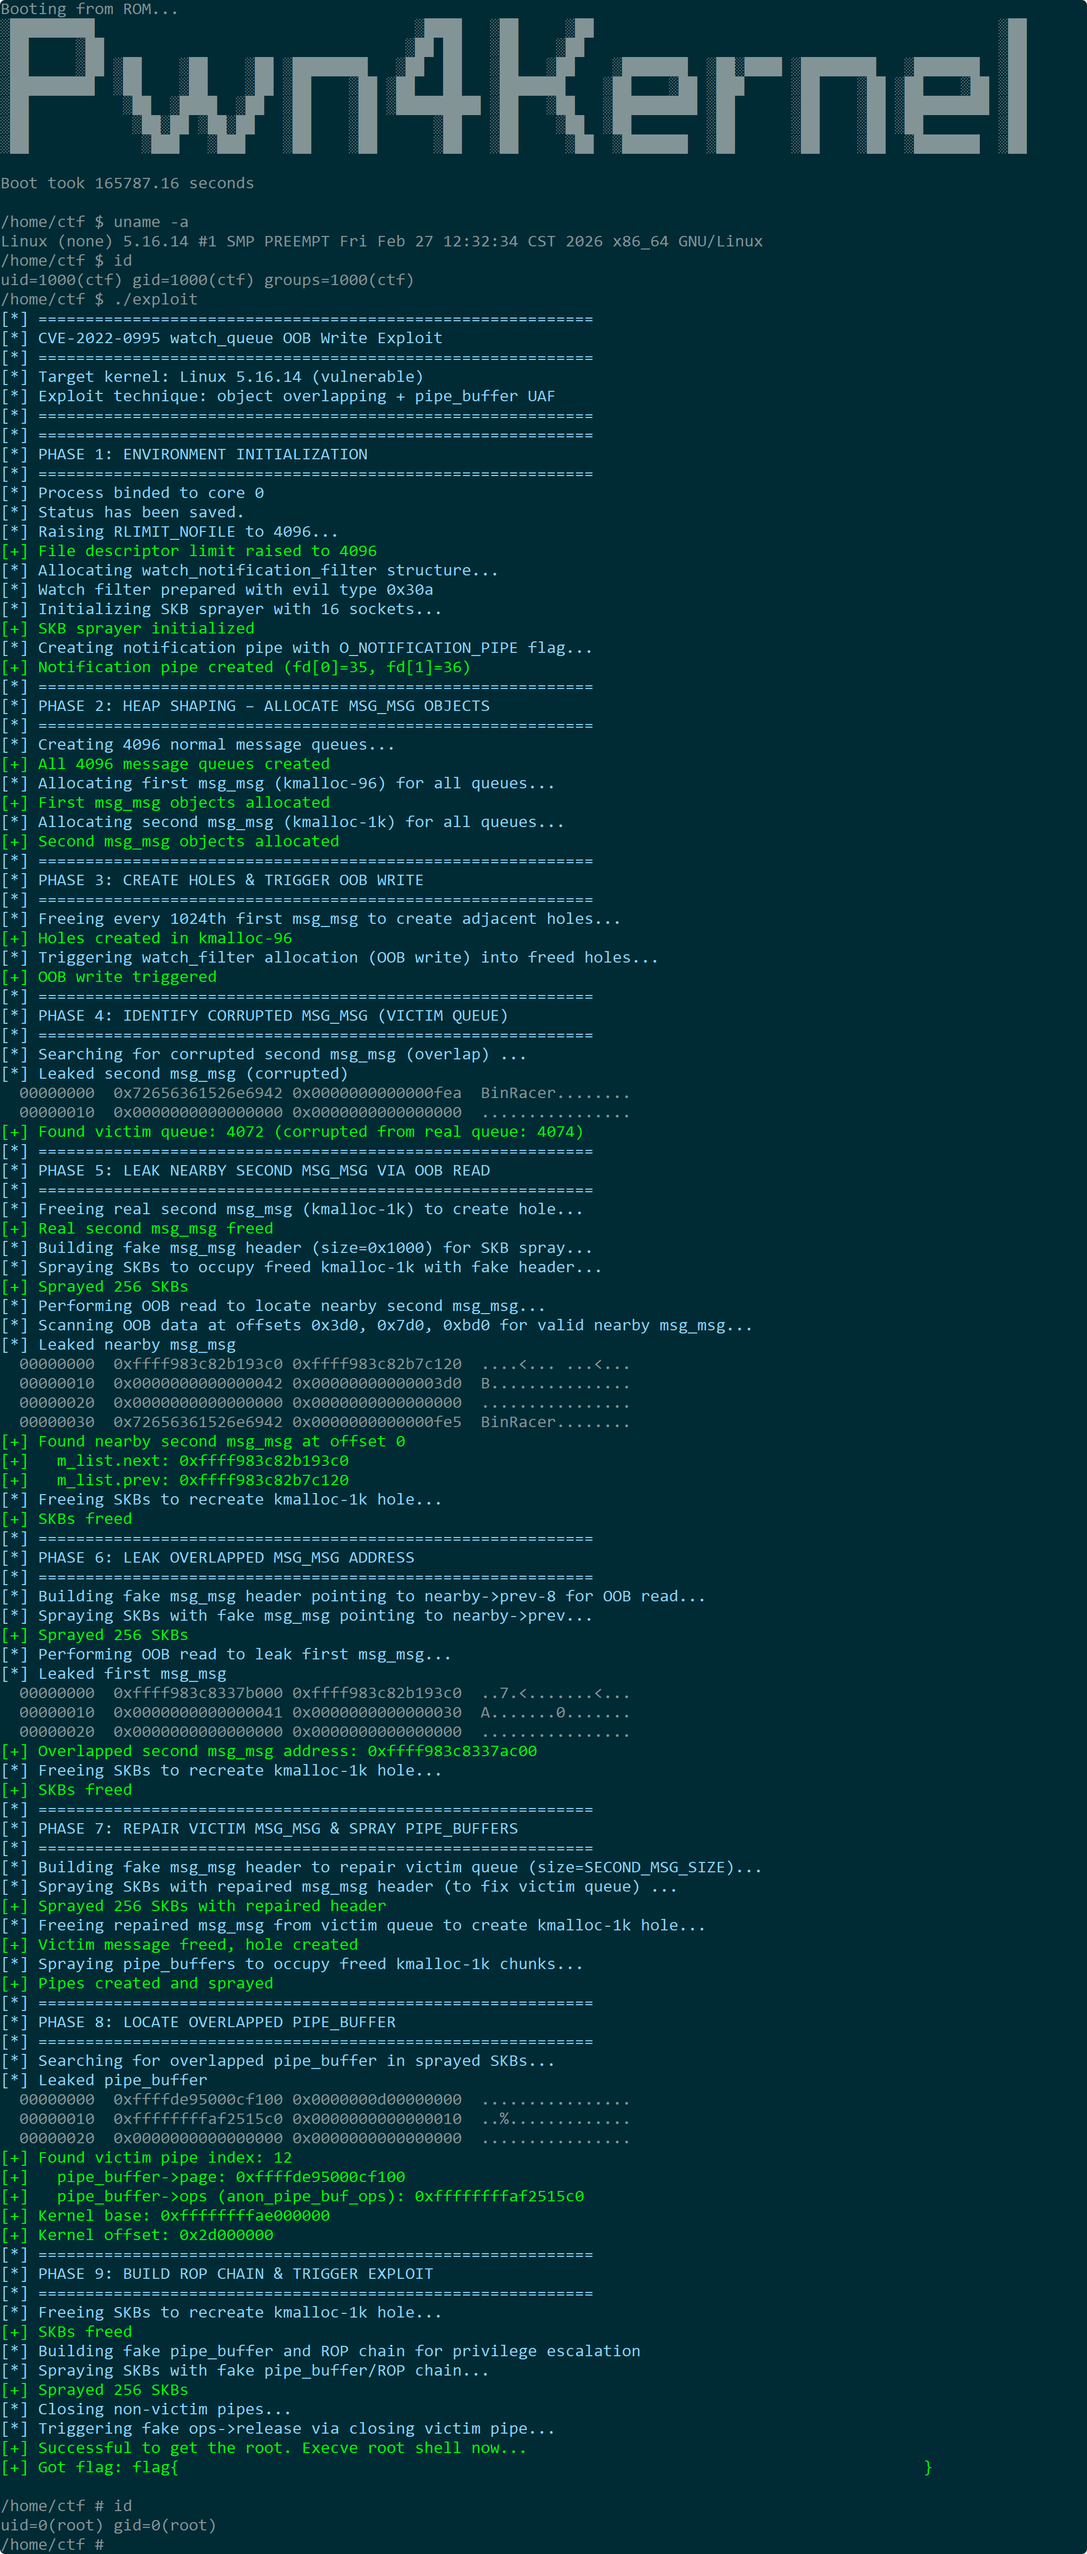
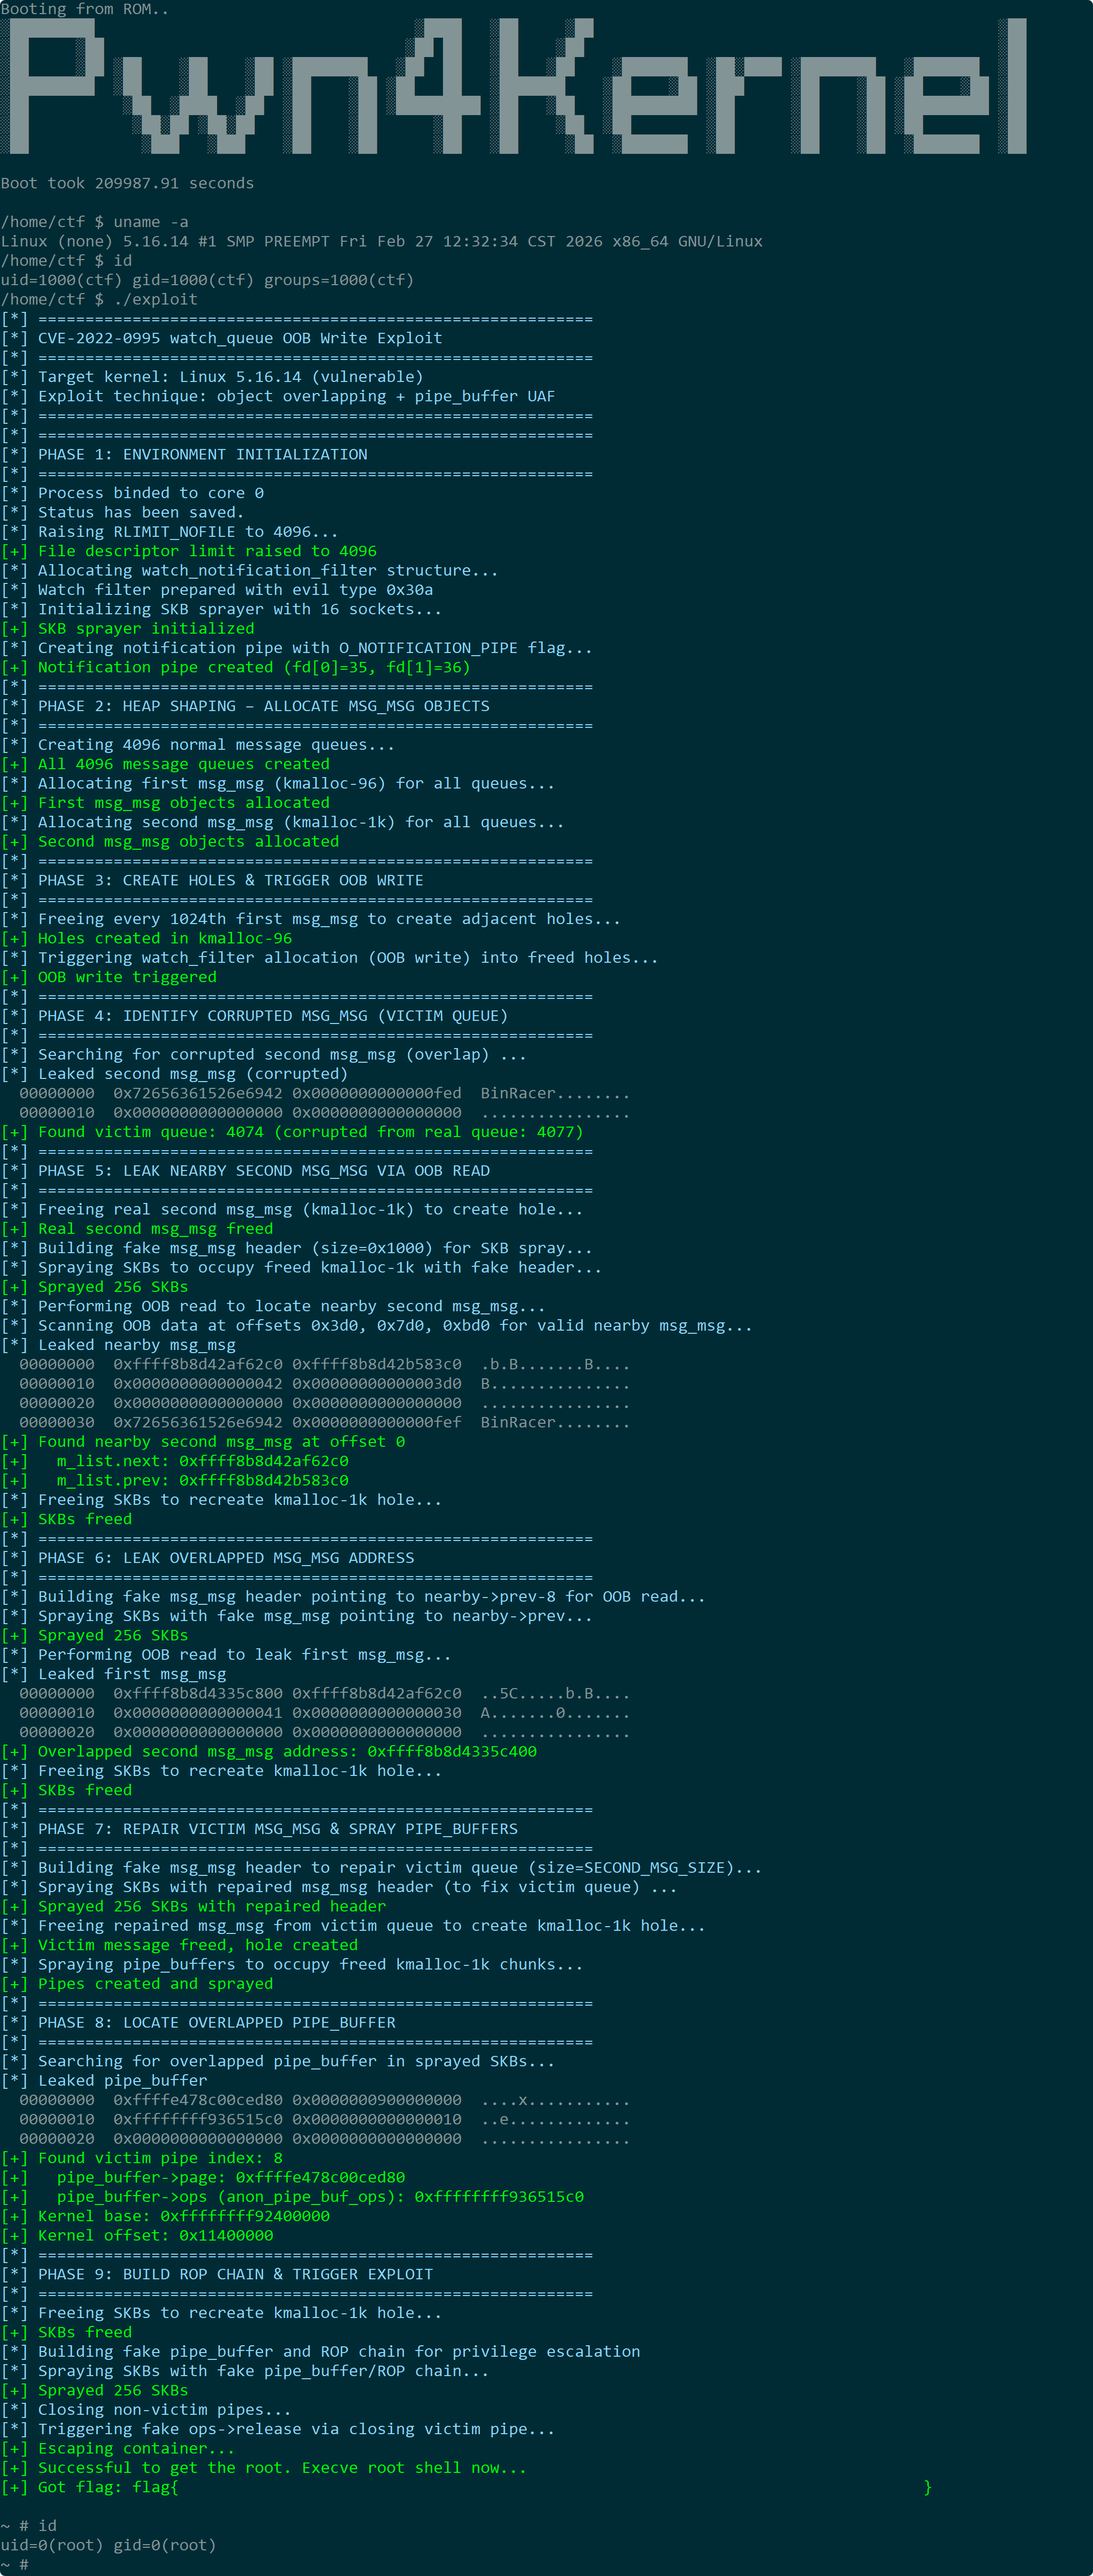
update 【Kernel Exploit】CVE-2022-0995 漏洞分析

diff --git a/_posts/2026-06-20-KernelExploit-CVE-2022-0995.md b/_posts/2026-06-20-KernelExploit-CVE-2022-0995.md
@@ -991,10 +991,10 @@ sequenceDiagram
     Kernel->>SKB: 执行伪造ops->release
     SKB->>Kernel: 跳转至ROP链地址
     Kernel->>Kernel: 执行ROP链
-    Kernel->>Kernel: FIND_TASK_BY_VPID(1) → 获取init进程的task_struct
-    Kernel->>Kernel: switch_task_namespaces(init_task, INIT_NSPROXY) → 切换到初始命名空间
     Kernel->>Kernel: prepare_kernel_cred(0) → 获取root凭证
     Kernel->>Kernel: commit_creds(root_cred) → 应用凭证
+    Kernel->>Kernel: FIND_TASK_BY_VPID(1) → 获取init进程的task_struct
+    Kernel->>Kernel: switch_task_namespaces(init_task, INIT_NSPROXY) → 切换到初始命名空间
     Kernel-->>User: 返回root shell
 ```
 
@@ -1004,7 +1004,7 @@ sequenceDiagram
 
 2. **重新堆喷伪造的 SKB 数据区**：立即堆喷新的 `sk_buff->data` 缓冲区，使其占据刚释放的空洞。在该数据区中构造一个伪造的 `pipe_buffer` 结构，复制原 `pipe_buffer` 的有效字段（如 `page`、`len`、`offset`），同时将 `ops` 指针改为指向用户空间准备的伪造函数表。该函数表中填充了基于已泄露内核基址的 ROP 链地址。
 
-3. **触发 ROP 链**：关闭对应的管道文件描述符（即阶段八中与重叠位置关联的管道）。内核在管道释放路径中会调用 `pipe_buffer->ops->release`，由于 `ops` 已被替换，实际执行的是 ROP 链。ROP 链首先通过调用 `FIND_TASK_BY_VPID(1)` 获取 PID 为 1 的 init 进程的 `task_struct` 指针，然后调用 `switch_task_namespaces` 将该指针及 `INIT_NSPROXY` 的地址作为参数传入，将当前进程的命名空间切换为初始命名空间（完成容器逃逸）。接着调用 `prepare_kernel_cred(0)` 获取 root 凭证，再调用 `commit_creds` 应用凭证。最后通过 `swapgs_restore_regs_and_return_to_usermode` 等安全返回方式返回到用户态的 shell 函数。执行完毕后，当前进程获得 root 权限且脱离原有容器命名空间，得到一个具有最高权限的交互式 shell。
+3. **触发 ROP 链**：关闭对应的管道文件描述符（即阶段八中与重叠位置关联的管道）。内核在管道释放路径中会调用 `pipe_buffer->ops->release`，由于 `ops` 已被替换，实际执行的是 ROP 链。ROP 链首先调用 `prepare_kernel_cred(0)` 获取 root 凭证，再调用 `commit_creds` 应用凭证。接着通过调用 `FIND_TASK_BY_VPID(1)` 获取 PID 为 1 的 init 进程的 `task_struct` 指针，然后调用 `switch_task_namespaces` 将该指针及 `INIT_NSPROXY` 的地址作为参数传入，将当前进程的命名空间切换为初始命名空间（完成容器逃逸）。最后通过 `swapgs_restore_regs_and_return_to_usermode` 等安全返回方式返回到用户态的 shell 函数。执行完毕后，当前进程获得 root 权限且脱离原有容器命名空间，得到一个具有最高权限的交互式 shell。
 
 ### 4-12. 保护机制应对策略
 
